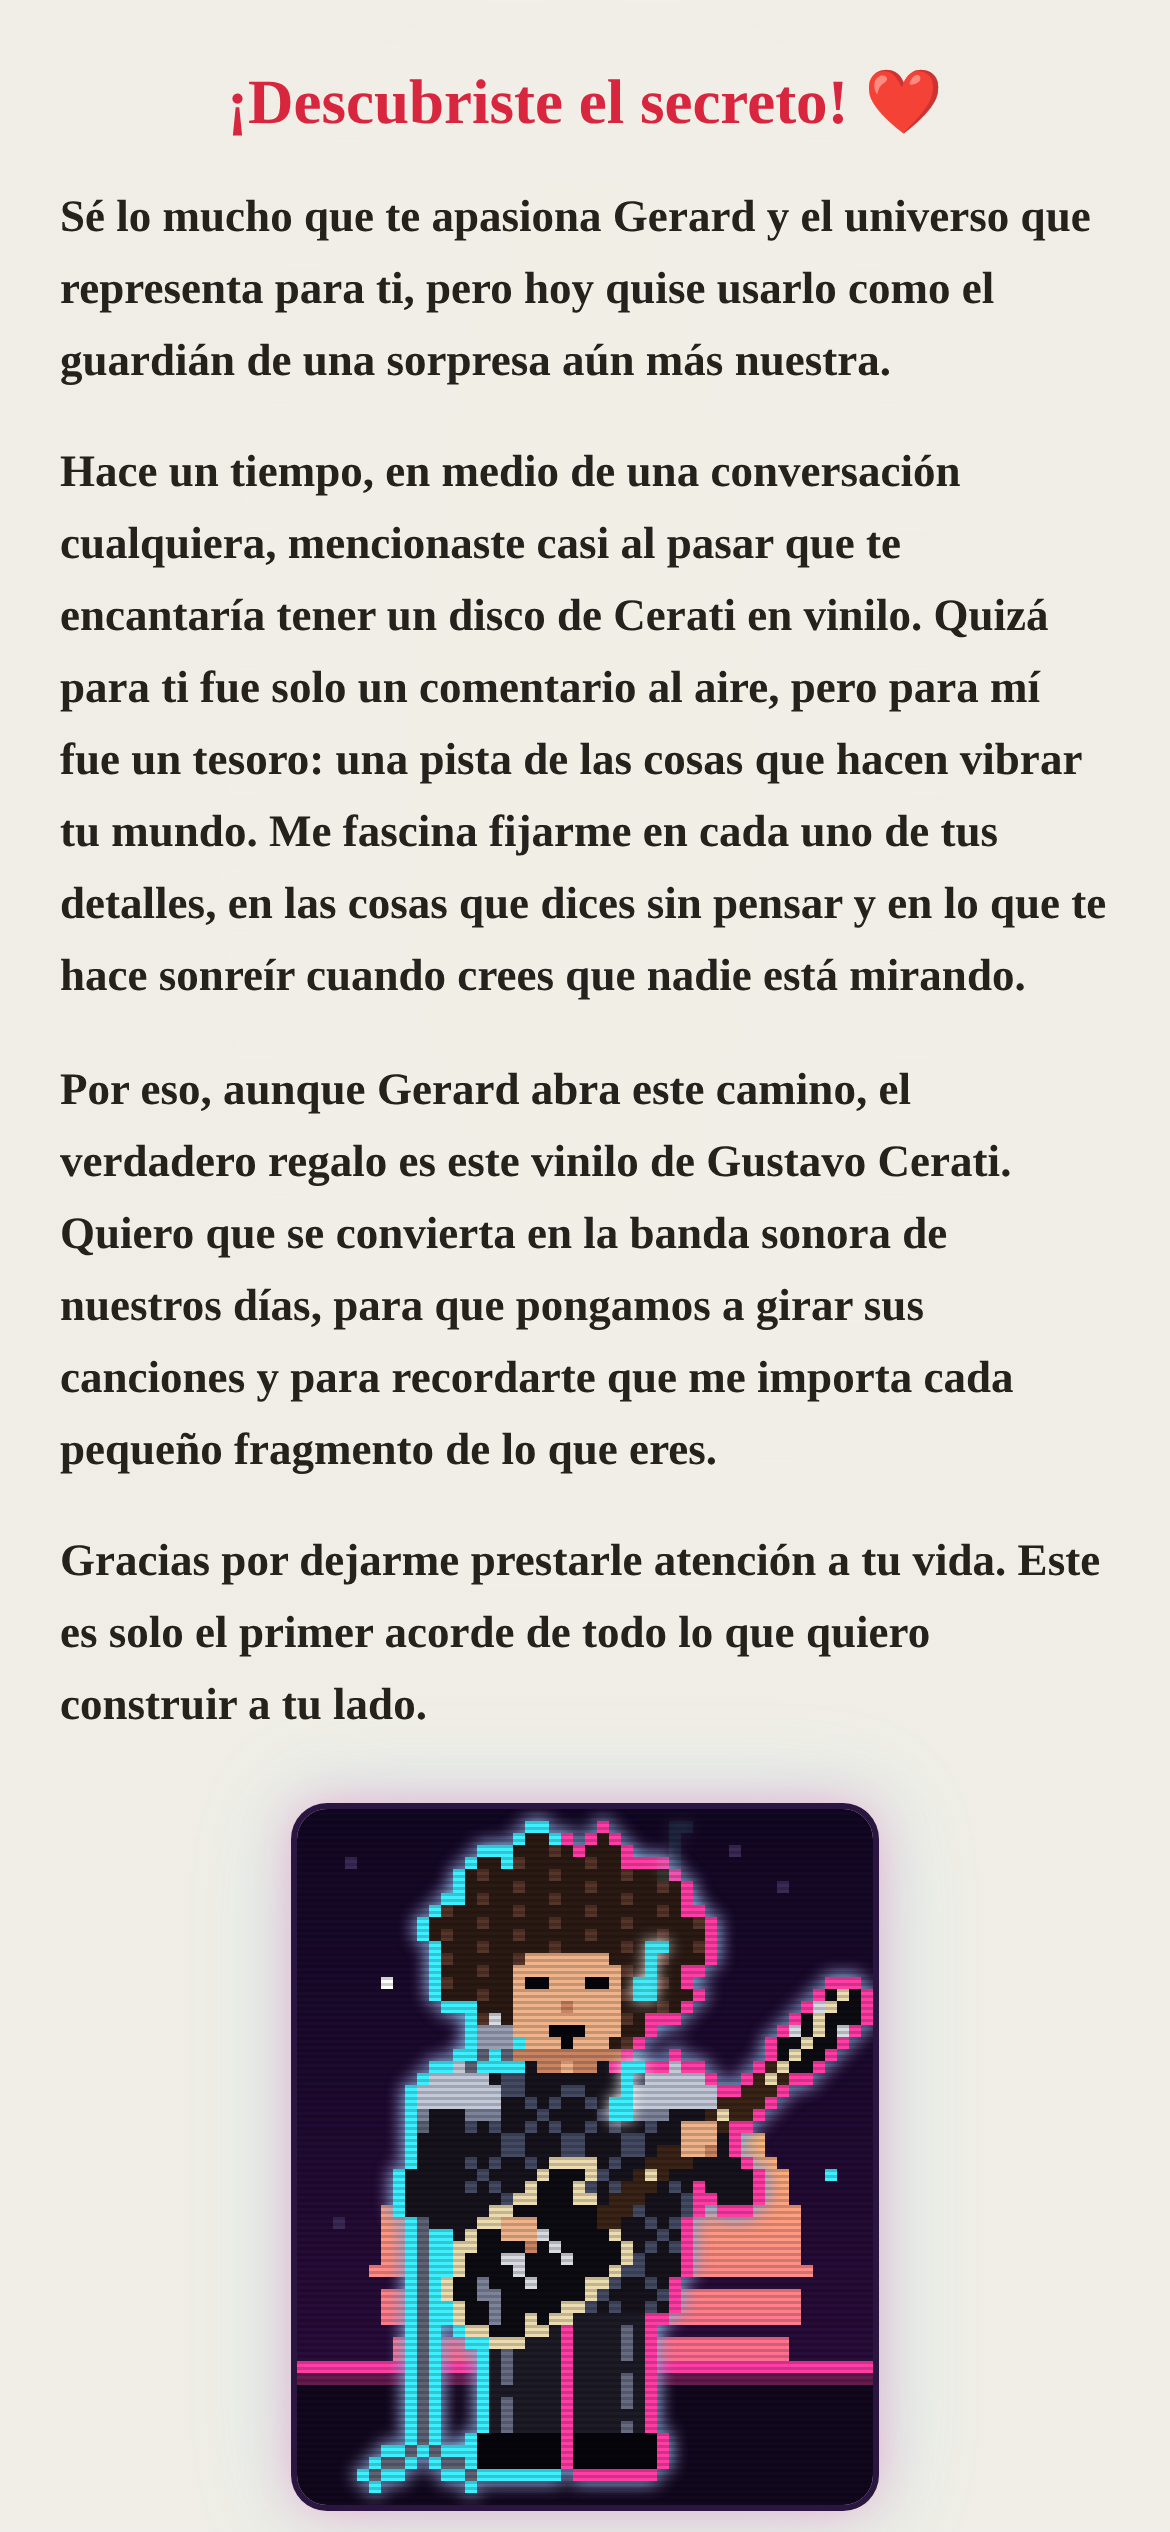
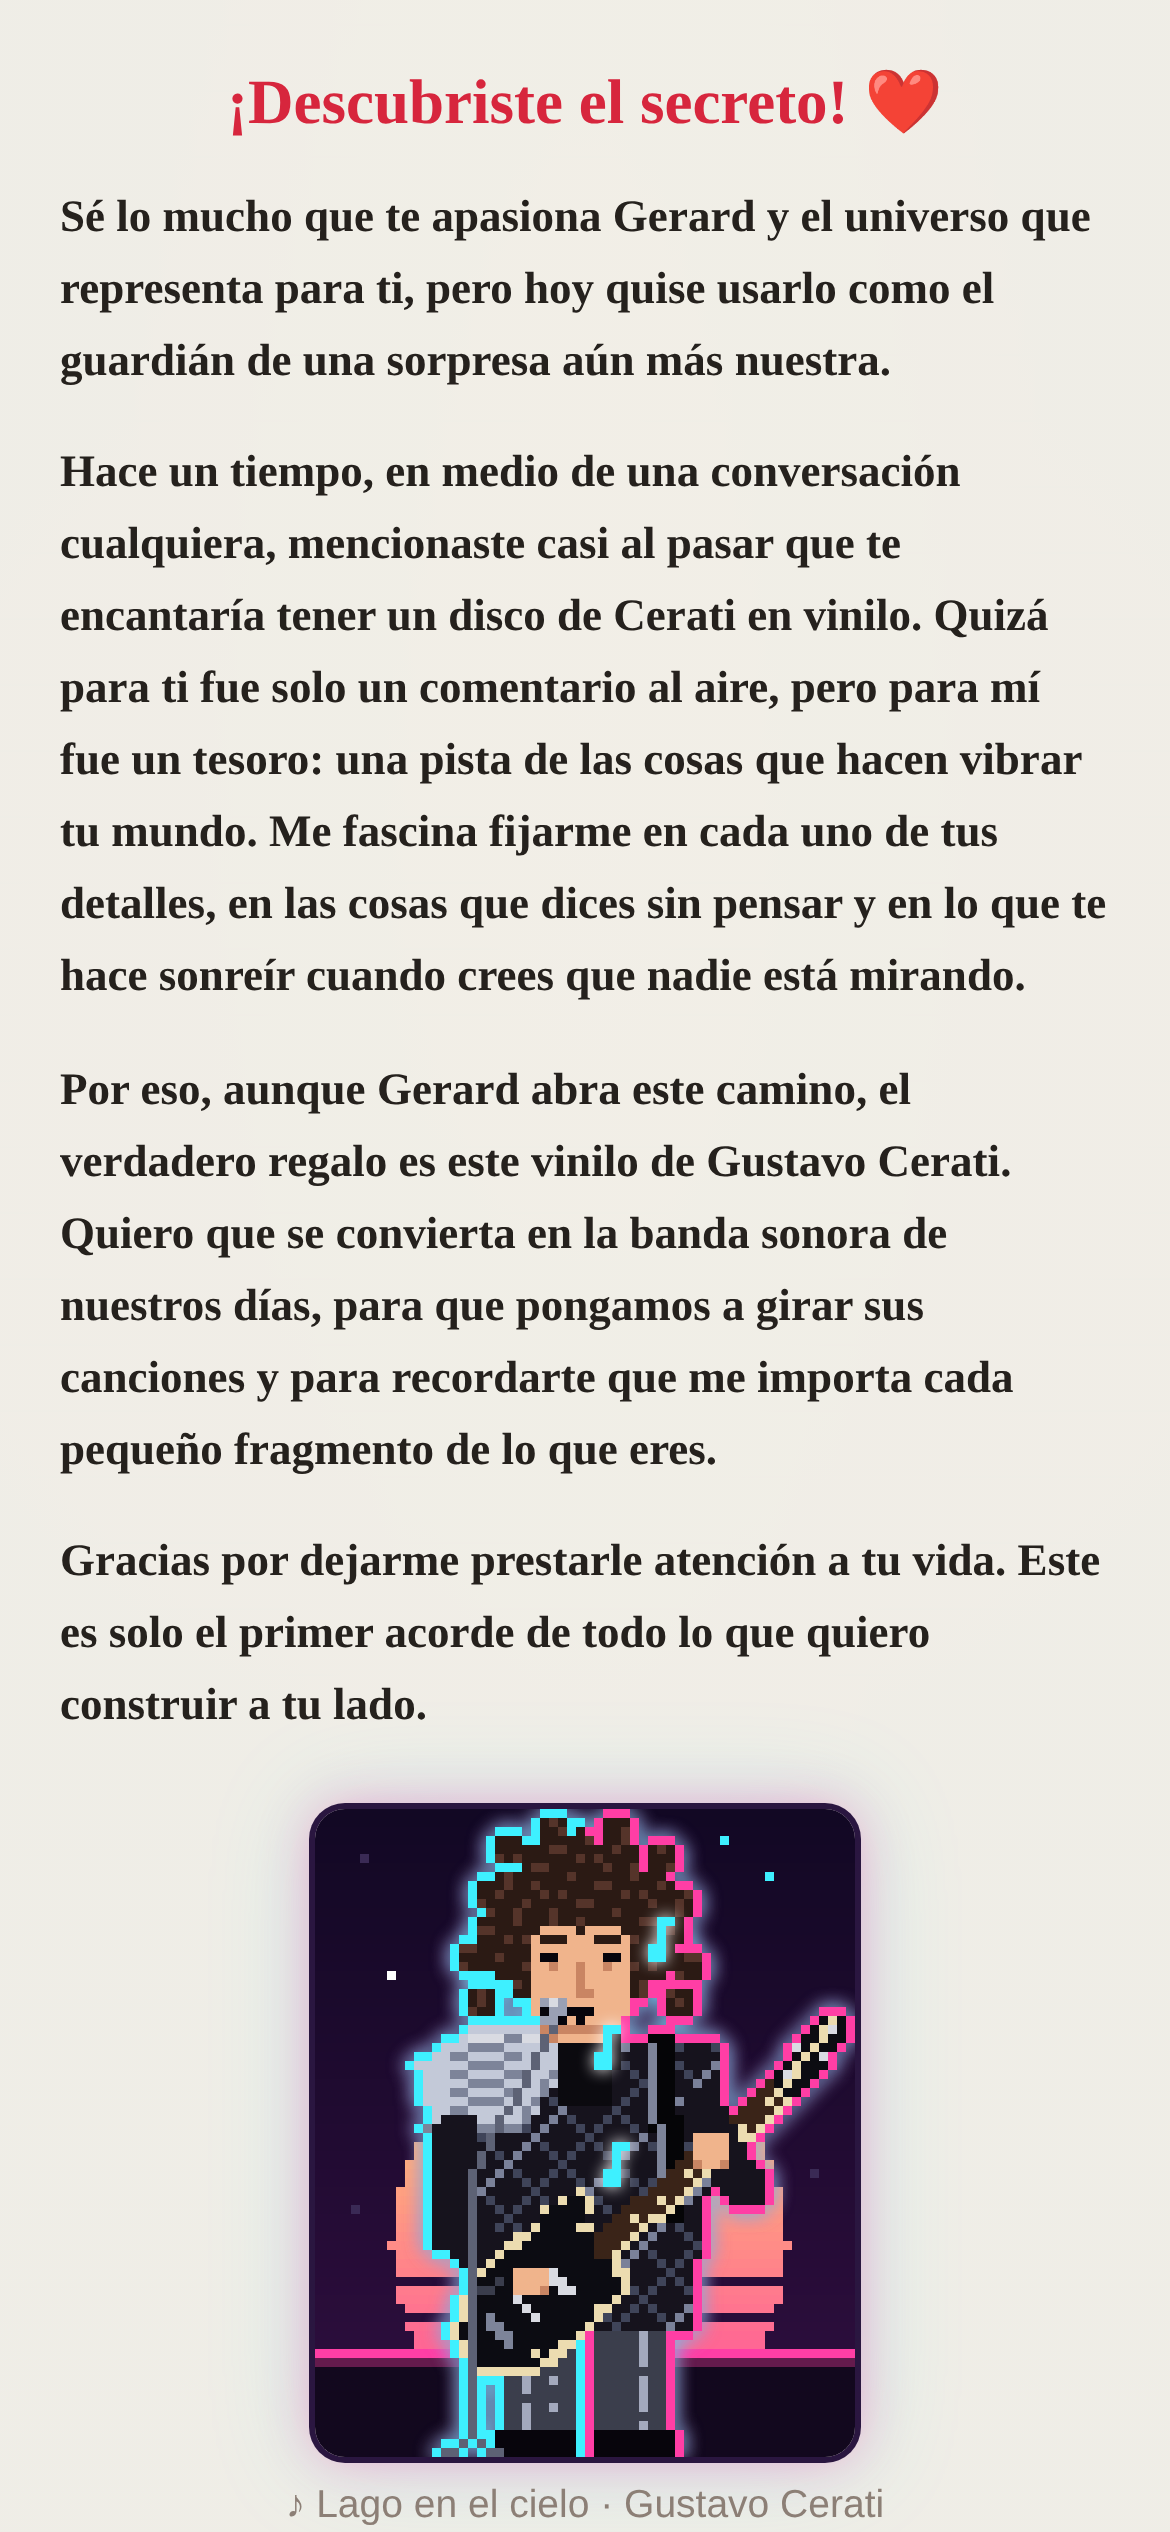
Cerati redibujado fiel a la foto
Rizos a la altura de las orejas, cara alargada con nariz marcada, una
sola hombrera plateada angulosa, correa de la guitarra, chaqueta con
rombos plateados, pantalón de cuero plateado y micrófono delante de la
boca con el pie en diagonal. Sprite más grande (60 × 72) para más detalle.

Claude-Session: https://claude.ai/code/session_01LX1fnhepY3LFkpFUZsaEom

Changed region(s): [[0.2462, 0.6864, 0.7692, 0.9984]]

diff --git a/index.html b/index.html
@@ -1256,9 +1256,9 @@
      sol de neón, borde de luz cian/magenta y líneas de televisor CRT. */
 
   function createNeoCerati(canvas) {
-    const W = 48;
-    const H = 58;
-    const SCALE = 4;
+    const W = 60;
+    const H = 72;
+    const SCALE = 3;
     const FPS = 8;
 
     const PAL = {
@@ -1268,7 +1268,11 @@
       S: "#f0b48c", /* piel */
       s: "#c98563", /* sombra de piel */
       J: "#16131d", /* chaqueta */
-      j: "#454a63", /* rombos plateados */
+      j: "#3f4459", /* rombos plateados */
+      i: "#7a8199", /* brillo de los rombos */
+      T: "#0b0a0f", /* camiseta */
+      K: "#050507", /* correa */
+      g: "#3a3d4c", /* brillo del barniz */
       P: "#c3c9d8", /* hombreras */
       p: "#7d8499",
       G: "#0c0c12", /* guitarra */
@@ -1276,8 +1280,8 @@
       w: "#d9dbe2", /* pastillas / clavijas */
       n: "#3a2418", /* mástil */
       f: "#ecdcb0", /* marcadores */
-      L: "#1d1c26", /* pantalón de cuero */
-      l: "#666b82", /* brillo del cuero */
+      L: "#3b3e4c", /* pantalón de cuero plateado */
+      l: "#a3a9bd", /* brillo del cuero */
       m: "#9aa0b4", /* micrófono */
       M: "#5d6275"  /* pie del micrófono */
     };
@@ -1329,140 +1333,173 @@
           rect(Math.round(x - (th - 1) / 2), Math.round(y - (th - 1) / 2), th, th, c);
         }
       };
+      const polygon = (pts, c) => {
+        const ys = pts.map(p => p[1]);
+        for (let y = Math.min(...ys); y <= Math.max(...ys); y++) {
+          for (let x = 0; x < W; x++) {
+            let inside = false;
+            for (let i = 0, j = pts.length - 1; i < pts.length; j = i++) {
+              const [xi, yi] = pts[i];
+              const [xj, yj] = pts[j];
+              if ((yi > y) !== (yj > y) && x < (xj - xi) * (y - yi) / (yj - yi) + xi) inside = !inside;
+            }
+            if (inside) set(x, y, c);
+          }
+        }
+      };
 
       const bob = [0, 0, 1, 1, 0, 0, 1, 1][t];   /* cabeceo al ritmo */
       const strum = [0, 1, 2, 1, 0, 1, 2, 1][t]; /* mano que rasguea */
-      const fret = t < 4 ? 0.62 : 0.5;           /* mano que se desliza por el mástil */
+      const fret = t < 4 ? 0.6 : 0.5;            /* mano que se desliza por el mástil */
 
-      /* Pie del micrófono */
-      line(10, 25, 10, 52, "M");
-      line(10, 52, 6, 55, "M");
-      line(10, 52, 14, 55, "M");
-      line(10, 25, 15, 20, "M");
-
-      /* Piernas: pantalón de cuero con brillo */
-      rect(16, 41, 6, 12, "L");
-      rect(23, 41, 6, 12, "L");
-      for (let y = 42; y < 52; y++) {
-        if (y % 4 !== 0) set(17, y, "l");
-        if (y % 4 !== 2) set(27, y, "l");
+      /* Piernas: pantalón de cuero plateado y brillante */
+      rect(21, 57, 8, 13, "L");
+      rect(31, 57, 8, 13, "L");
+      for (let y = 58; y < 69; y++) {
+        if (y % 5 !== 0) set(23, y, "l");
+        if (y % 5 !== 2) set(36, y, "l");
+        if (y % 3 === 0) set(26, y, "l");
       }
-      rect(15, 52, 7, 3, "k");
-      rect(23, 52, 7, 3, "k");
+      rect(20, 69, 9, 3, "k");
+      rect(31, 69, 9, 3, "k");
 
-      /* Torso: chaqueta con trama de rombos */
-      for (let y = 22; y <= 41; y++) {
-        const half = y < 27 ? 11 : Math.round(11 - (y - 27) * .22);
-        for (let x = 22 - half; x <= 22 + half; x++) {
-          const diamond = (x + y) % 5 === 0 || (x - y + 100) % 5 === 0;
-          set(x, y, diamond ? "j" : "J");
+      /* Torso: chaqueta negra con trama de rombos plateados */
+      for (let y = 26; y <= 57; y++) {
+        const half = y < 32 ? 14 : Math.round(14 - (y - 32) * .14);
+        for (let x = 30 - half; x <= 30 + half; x++) {
+          const a = (x + y) % 6 === 0;
+          const b = (x - y + 120) % 6 === 0;
+          set(x, y, a || b ? ((x + y) % 12 === 0 ? "i" : "j") : "J");
         }
       }
-      rect(19, 21, 7, 2, "J"); /* cuello alto */
+      /* camiseta negra en el cuello */
+      polygon([[25, 25], [34, 25], [32, 33], [27, 33]], "T");
 
-      /* Hombreras plateadas */
-      ellipse(13, 23.5, 3.5, 2.5, "P");
-      ellipse(31, 23.5, 3.5, 2.5, "P");
-      line(10, 25, 16, 25, "p");
-      line(28, 25, 34, 25, "p");
+      /* Correa de la guitarra (sobre su hombro izquierdo) */
+      line(38, 26, 39, 44, "K", 3);
+      line(37, 26, 38, 44, "p");
 
-      /* Brazo que rasguea (lado izquierdo de la imagen) */
-      line(12, 26, 10, 32, "J", 3);
-      line(10, 32, 17, 33 + strum, "J", 3);
+      /* Hombrera plateada grande y angulosa (su hombro derecho) */
+      polygon([[11, 28], [17, 24], [26, 24], [27, 29], [22, 36], [13, 36]], "P");
+      line(12, 35, 22, 35, "p");
+      line(22, 35, 26, 29, "p");
+      line(17, 25, 25, 25, "w");
+      for (let y = 27; y < 34; y += 2) line(15, y, 22, y - 2, "p");
 
-      /* Guitarra tipo superstrat negra con filete crema, inclinada
-         en la dirección del mástil (como en la foto). */
-      const n0 = { x: 25, y: 33 };
-      const n1 = { x: 41, y: 20 };
+      /* Brazo que rasguea */
+      line(15, 35, 14, 46, "J", 4);
+      line(14, 46, 23, 51 + strum, "J", 4);
+
+      /* Guitarra: cuerpo negro con filete crema, inclinada como en la foto */
+      const n0 = { x: 32, y: 48 };
+      const n1 = { x: 52, y: 30 };
       const ang = Math.atan2(n1.y - n0.y, n1.x - n0.x);
-      const ux = Math.cos(ang), uy = Math.sin(ang);   /* a lo largo del mástil */
-      const vx = -uy, vy = ux;                        /* perpendicular */
+      const ux = Math.cos(ang), uy = Math.sin(ang);
+      const vx = -uy, vy = ux;
+      const C = { x: 24, y: 54 };
       const tilted = (cx, cy, ra, rb, c) => {
-        for (let y = Math.floor(cy - 10); y <= cy + 10; y++) {
-          for (let x = Math.floor(cx - 10); x <= cx + 10; x++) {
+        for (let y = Math.floor(cy - 13); y <= cy + 13; y++) {
+          for (let x = Math.floor(cx - 13); x <= cx + 13; x++) {
             const a = ((x - cx) * ux + (y - cy) * uy) / ra;
             const b = ((x - cx) * vx + (y - cy) * vy) / rb;
             if (a * a + b * b <= 1) set(x, y, c);
           }
         }
       };
-      const at = (a, b) => ({ x: 19 + ux * a + vx * b, y: 37.5 + uy * a + vy * b });
-      const hornA = at(6, -3.6);
-      const hornB = at(5, 3.6);
+      const at = (a, b) => ({ x: C.x + ux * a + vx * b, y: C.y + uy * a + vy * b });
+      const hornA = at(8, -4.6);
+      const hornB = at(6.5, 4.6);
       [["b", 0], ["G", 1]].forEach(([c, d]) => {
-        tilted(19, 37.5, 8 - d, 5.6 - d, c);
-        tilted(hornA.x, hornA.y, 3.6 - d, 1.8 - d * .6, c);
-        tilted(hornB.x, hornB.y, 2.6 - d, 1.6 - d * .6, c);
+        tilted(C.x, C.y, 10.5 - d, 7 - d, c);
+        tilted(hornA.x, hornA.y, 4.4 - d, 2.2 - d * .6, c);
+        tilted(hornB.x, hornB.y, 3.2 - d, 2 - d * .6, c);
       });
-      /* pastillas (perpendiculares a las cuerdas) y puente */
-      [-1, 2.5].forEach(a => {
-        for (let b = -1.5; b <= 1.5; b += .5) {
+      /* brillo del barniz, pastillas, puente y perillas */
+      for (let a = -6; a <= -2; a++) {
+        const q = at(a, -4.4);
+        set(q.x, q.y, "g");
+      }
+      [-1.5, 3].forEach(a => {
+        for (let b = -2; b <= 2; b += .5) {
           const q = at(a, b);
           set(q.x, q.y, "w");
         }
       });
-      for (let b = -1.5; b <= 1.5; b += .5) {
-        const q = at(-4.5, b);
+      for (let b = -2; b <= 2; b += .5) {
+        const q = at(-5.5, b);
         set(q.x, q.y, "p");
       }
-      const knob = at(-3, 4);
-      set(knob.x, knob.y, "b");
+      [at(-4, 5), at(-1.5, 5.6)].forEach(q => set(q.x, q.y, "b"));
 
-      /* Mástil y clavijero (arriba a la derecha) */
-      line(n0.x, n0.y, n1.x, n1.y, "n", 2);
-      [.25, .45, .65, .85].forEach(k => set(n0.x + (n1.x - n0.x) * k, n0.y + (n1.y - n0.y) * k, "f"));
-      line(41, 20, 45, 16, "G", 3);
-      line(40, 21, 45, 15, "b");
-      set(43, 16, "w");
-      set(45, 18, "w");
-      set(41, 18, "w");
+      /* Mástil con filete crema y clavijero cromado */
+      line(n0.x, n0.y, n1.x, n1.y, "n", 3);
+      line(n0.x + 1, n0.y + 1, n1.x + 1, n1.y + 1, "b");
+      [.15, .3, .45, .6, .75, .9].forEach(k => set(n0.x + (n1.x - n0.x) * k, n0.y + (n1.y - n0.y) * k, "f"));
+      line(52, 30, 57, 24, "G", 3);
+      line(51, 31, 57, 23, "b");
+      [[54, 26], [56, 24], [53, 29], [55, 27]].forEach(([x, y], i) => set(x + (i % 2 ? 1 : -1), y, "w"));
 
       /* Mano que rasguea sobre las cuerdas */
-      rect(17, 33 + strum, 3, 2, "S");
-      set(19, 35 + strum, "s");
+      rect(22, 50 + strum, 4, 3, "S");
+      set(25, 52 + strum, "s");
 
       /* Brazo y mano en el mástil */
       const hx = n0.x + (n1.x - n0.x) * fret;
       const hy = n0.y + (n1.y - n0.y) * fret;
-      line(32, 26, 36, 31, "J", 3);
-      line(36, 31, hx + 1, hy + 2, "J", 3);
-      rect(Math.round(hx) - 1, Math.round(hy) - 1, 3, 3, "S");
-      set(Math.round(hx) + 1, Math.round(hy) + 1, "s");
+      line(42, 32, 47, 41, "J", 4);
+      line(47, 41, hx + 1, hy + 2, "J", 4);
+      rect(Math.round(hx) - 2, Math.round(hy) - 1, 4, 4, "S");
+      set(Math.round(hx) + 1, Math.round(hy) + 2, "s");
+      set(Math.round(hx) - 2, Math.round(hy) + 2, "s");
 
       /* Cuello y cabeza (cabecean) */
-      rect(20, 20, 5, 2, "s");
       const by = bob;
-      ellipse(22, 11 + by, 9.5, 8, "H");
-      for (let a = 0; a < 360; a += 32) {
+      rect(26, 23, 7, 3, "s");
+      /* pelo: rizos a la altura de las orejas */
+      ellipse(29, 13 + by, 9.5, 9, "H");
+      for (let a = 0; a < 360; a += 30) {
         const r = a * Math.PI / 180;
-        ellipse(22 + Math.cos(r) * 9.5, 11 + by + Math.sin(r) * 7.5, 2, 2, "H");
+        const ry = a > 20 && a < 160 ? 6 : 9; /* menos rizos por abajo */
+        ellipse(29 + Math.cos(r) * 9.5, 13 + by + Math.sin(r) * ry, 2.2, 2.2, "H");
       }
-      ellipse(22, 15 + by, 5, 6, "S");
-      /* rulos sobre la frente y a los lados */
-      ellipse(22, 9 + by, 6, 2.5, "H");
-      ellipse(18, 10 + by, 2, 2, "H");
-      ellipse(26, 10 + by, 2, 2, "H");
-      rect(16, 11 + by, 2, 6, "H");
-      rect(27, 11 + by, 2, 6, "H");
-      /* brillos de los rulos */
-      for (let y = 2; y < 20; y++) {
-        for (let x = 11; x < 34; x++) {
+      [[19, 9], [21, 4], [26, 2], [33, 2], [38, 5], [40, 10], [41, 17], [17, 16], [18, 21], [40, 21]].forEach(([x, y]) => ellipse(x, y + by, 1.6, 1.6, "H"));
+      /* cara alargada */
+      ellipse(29, 18 + by, 6, 7.5, "S");
+      /* rizos sobre la frente y a los lados de la cara */
+      ellipse(29, 10 + by, 7, 3, "H");
+      ellipse(24, 11 + by, 2.2, 2.2, "H");
+      ellipse(34, 11 + by, 2.2, 2.2, "H");
+      rect(22, 13 + by, 2, 8, "H");
+      rect(35, 13 + by, 2, 8, "H");
+      /* brillos de los rizos */
+      for (let y = 1; y < 24; y++) {
+        for (let x = 16; x < 43; x++) {
           const yy = y + by;
-          if (g[yy] && g[yy][x] === "H" && (x * 7 + y * 3) % 6 === 0) g[yy][x] = "h";
+          if (g[yy] && g[yy][x] === "H" && ((x * 3 + y * 5) % 7 === 0 || (x * 5 + y * 2) % 11 === 0)) g[yy][x] = "h";
         }
       }
-      /* cara cantando: ojos entrecerrados, boca abierta */
-      rect(19, 14 + by, 2, 1, "k");
-      rect(24, 14 + by, 2, 1, "k");
-      set(22, 16 + by, "s");
-      rect(21, 18 + by, 3, 1, "k");
-      set(22, 19 + by, t % 2 ? "k" : "s");
-      rect(18, 20 + by, 9, 1, "s");
+      /* cejas, ojos, nariz marcada y boca cantando */
+      rect(25, 14 + by, 3, 1, "H");
+      rect(31, 14 + by, 3, 1, "H");
+      rect(25, 16 + by, 2, 1, "k");
+      rect(32, 16 + by, 2, 1, "k");
+      set(26, 17 + by, "s");
+      set(32, 17 + by, "s");
+      line(29, 17 + by, 29, 20 + by, "s");
+      set(30, 20 + by, "s");
+      rect(28, 22 + by, 3, 1, "k");
+      set(29, 23 + by, t % 2 ? "k" : "s");
+      rect(25, 24 + by, 9, 1, "s");
 
-      /* Micrófono delante de la boca (no cabecea) */
-      rect(15, 18, 3, 2, "m");
-      set(16, 17, "w");
-      set(17, 20, "M");
+      /* Micrófono justo delante de la boca, con el pie en diagonal */
+      line(26, 24, 17, 40, "M");
+      line(17, 40, 17, 69, "M");
+      line(17, 69, 13, 72, "M");
+      line(17, 69, 21, 72, "M");
+      rect(25, 21, 3, 3, "m");
+      set(26, 21, "w");
+      set(25, 22, "k");
+      set(27, 23, "k");
 
       return g;
     }
@@ -1474,7 +1511,7 @@
         for (let x = 0; x < W; x++) {
           if (g[y][x]) continue;
           const near = (g[y][x - 1]) || (g[y][x + 1]) || (g[y - 1] && g[y - 1][x]) || (g[y + 1] && g[y + 1][x]);
-          if (near) out[y][x] = x < 22 ? CYAN : PINK;
+          if (near) out[y][x] = x < 30 ? CYAN : PINK;
         }
       }
       return out;
@@ -1511,13 +1548,13 @@
         cx.fillRect(0, y, W, 1);
       }
       /* estrellas que titilan */
-      [[4, 4], [40, 6], [7, 14], [44, 30], [3, 34], [36, 3], [30, 9]].forEach(([x, y], i) => {
+      [[5, 5], [50, 7], [8, 18], [55, 40], [4, 44], [45, 3], [40, 12], [12, 30]].forEach(([x, y], i) => {
         const on = Math.sin(time / 400 + i * 1.7) > -.2;
         cx.fillStyle = on ? (i % 2 ? CYAN : "#ffffff") : "#3a2a55";
         cx.fillRect(x, y, 1, 1);
       });
       /* sol con franjas que bajan lentamente */
-      const sun = { x: 24, y: 38, r: 18 };
+      const sun = { x: 30, y: 48, r: 22 };
       const shift = Math.floor(time / 180) % 4;
       for (let y = sun.y - sun.r; y <= sun.y + sun.r; y++) {
         if (y > sun.y && (y + shift) % 4 === 0) continue;
@@ -1531,11 +1568,11 @@
       }
       /* horizonte y suelo */
       cx.fillStyle = "#12081e";
-      cx.fillRect(0, 46, W, H - 46);
+      cx.fillRect(0, 60, W, H - 60);
       cx.fillStyle = PINK;
-      cx.fillRect(0, 46, W, 1);
+      cx.fillRect(0, 60, W, 1);
       cx.fillStyle = "rgba(255, 62, 165, .35)";
-      cx.fillRect(0, 47, W, 1);
+      cx.fillRect(0, 61, W, 1);
     }
 
     /* Notas musicales que salen de la guitarra */
@@ -1549,12 +1586,12 @@
       if (time - lastNote > 1100) {
         lastNote = time;
         const colors = [CYAN, PINK, "#ffd36e"];
-        flying.push({ born: time, x: 24 + (flying.length % 3) * 6, color: colors[flying.length % 3] });
+        flying.push({ born: time, x: 30 + (flying.length % 3) * 7, color: colors[flying.length % 3] });
       }
       for (let i = flying.length - 1; i >= 0; i--) {
         const n = flying[i];
         const age = (time - n.born) / 1000;
-        const y = Math.round(30 - age * 9);
+        const y = Math.round(40 - age * 11);
         const x = Math.round(n.x + Math.sin(age * 3) * 2 + age * 2);
         if (y < -6) {
           flying.splice(i, 1);
